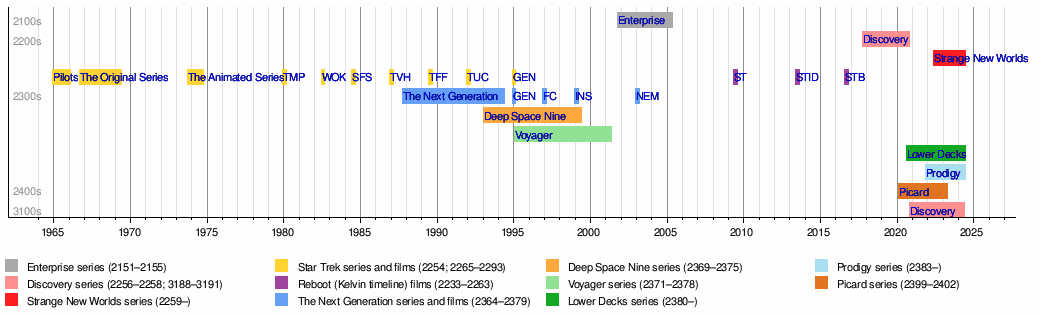
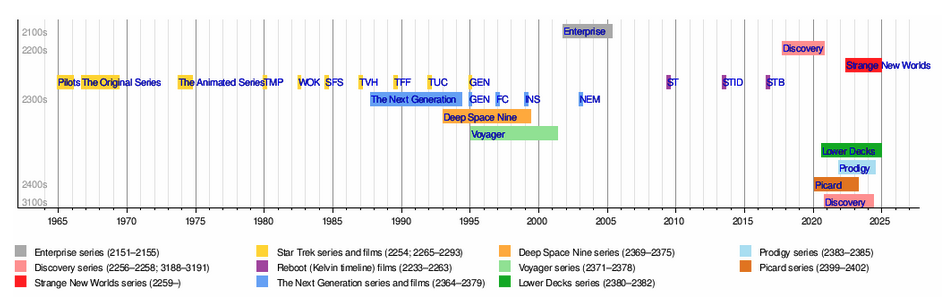
update star trek page

diff --git a/web/source/tv/star-trek/index.md b/web/source/tv/star-trek/index.md
@@ -15,9 +15,9 @@ Probablemente sea imposible que vaya a terminar algún día este "*proyecto*", y
 
 ![Timeline de series de Star Trek](./index/timeline.png)
 
-*[Wikipedia](https://en.wikipedia.org/wiki/Star_Trek): en 2023 estaban emitiéndose simultáneamente cinco series de Star Trek. Esto es una locura*.{.center}
+*[Timeline de la Wikipedia](https://en.wikipedia.org/wiki/Star_Trek): en 2023 estaban emitiéndose simultáneamente cinco series. Esto es una locura*.{.center}
 
-Una lista de lo que tenemos por delante, actualizada a **Julio de 2024**:
+Una lista de lo que tenemos por delante, actualizada a **Enero de 2025**:
 
 | Serie | Temps | Eps | Emisión |
 | ----- | :---: | :-: | ------- |
@@ -27,13 +27,15 @@ Una lista de lo que tenemos por delante, actualizada a **Julio de 2024**:
 | [*Deep Space Nine*](https://en.wikipedia.org/wiki/Star_Trek:_Deep_Space_Nine) | 7 | 176 | Enero 1993 – Mayo 1999 |
 | [*Voyager*](https://en.wikipedia.org/wiki/Star_Trek:_Voyager) | 7 | 172 | Enero 1995 – Mayo 2001 |
 | [*Enterprise*](https://en.wikipedia.org/wiki/Star_Trek:_Enterprise) | 4 | 98 | Sep 2001 – Mayo 2005 |
-| [*Discovery*](https://en.wikipedia.org/wiki/Star_Trek:_Discovery) | 5 | 65 | Sept 2017 – **presente** |
+| [*Discovery*](https://en.wikipedia.org/wiki/Star_Trek:_Discovery) | 5 | 65 | Sept 2017 – Mayo 2024 |
 | [*Short Treks*](https://en.wikipedia.org/wiki/Star_Trek:_Short_Treks) | 2 | 10 | Octubre 2018 – Enero 2020 |
 | *[Picard](https://en.wikipedia.org/wiki/Star_Trek:_Picard)* | 3 | 30 | Enero 2020 – Abril 2023 |
-| [*Lower Decks*](https://en.wikipedia.org/wiki/Star_Trek:_Lower_Decks) | 4 | 40 | Agosto 2020 – **presente** |
-| [*Prodigy*](https://en.wikipedia.org/wiki/Star_Trek:_Prodigy) | 2 | 40 | Octubre 2021 – ¿Julio 2024? |
+| [*Lower Decks*](https://en.wikipedia.org/wiki/Star_Trek:_Lower_Decks) | 5 | 50 | Agosto 2020 – Diciembre 2024 |
+| [*Prodigy*](https://en.wikipedia.org/wiki/Star_Trek:_Prodigy) | 2 | 40 | Octubre 2021 – Julio 2024 |
 | [*Strange New Worlds*](https://en.wikipedia.org/wiki/Star_Trek:_Strange_New_Worlds) | 2 | 20 | Mayo 2022 – **presente** |
 | [*Very Short Treks*](https://en.wikipedia.org/wiki/Star_Trek:_Very_Short_Treks) | 1 | 5 | Sep 2023 – Oct 2023 |
+| **Futuro** |  |  |  |
+| [Starfleet Academy](https://en.wikipedia.org/wiki/Star_Trek:_Starfleet_Academy_(TV_series)) | 1 | 10 | ¿2025? |
 
 Esta ordenación está hecha por fecha de emisión original, no por fecha estelar, es decir, el momento cronológico dentro del propio universo de **Star Trek** en el que sucede el contenido de cada capítulo. Durante mucho tiempo la serie original (la del *Capitán Kirk* de **William Shatner** y el *Doctor Spock* de **Leonard Nimoy**) fue la primera también cronológicamente, pero hay que tener en cuenta que casi toda **Enterprise** sucede casi un siglo antes que esto, ya que narra los acontecimientos de la primera misión de exploración del espacio profundo y la primera nave llamada *Enterprise*.
 
@@ -62,6 +64,8 @@ Ahora bien, si queremos hacer el visionado cronológico, ni intentemos calcularl
 | [*Star Trek: Más allá*](https://en.wikipedia.org/wiki/Star_Trek_Beyond) | *Reboot (Kelvin Timeline)* | Julio 2016 |
 | **Películas para Tv** |  |  |
 | [*Star Trek: Section 31*](https://en.wikipedia.org/wiki/Star_Trek:_Section_31) | *Star Trek: Discovery* | ¿2025? |
+
+*Desde 2016 sin una película de Star Trek, nunca desde el estreno de la película original habíamos pasado tantos años sin una aparición en cines*.{.center}
 
 ### La línea temporal Kelvin
 
